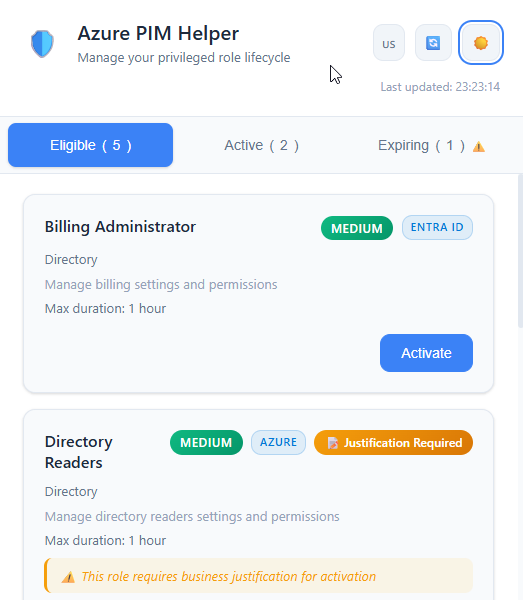
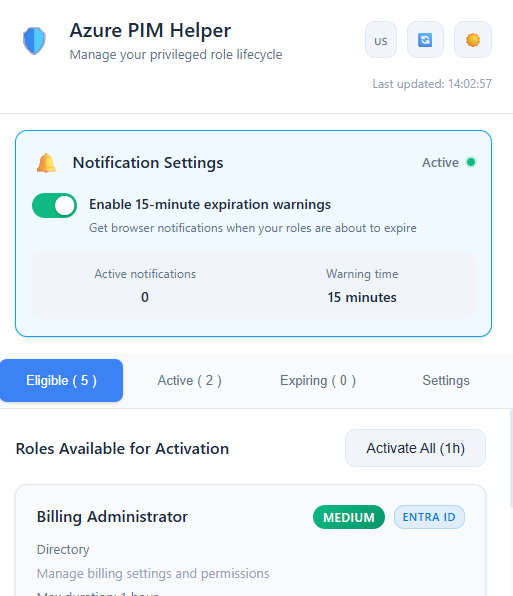
updated readme

diff --git a/README.md b/README.md
@@ -157,7 +157,7 @@ The extension supports both **English** and **French** with seamless switching:
 ### 🔔 Notification Settings Panel ⭐ *NEW!*
 *Comprehensive notification control and preferences*
 
-![Notification Settings](images/notification-panel.png)
+![Notification Settings](images/img6.png)
 
 ### 🌐 Multi-Language Support
 *Seamless language switching with flag icons*
@@ -172,7 +172,7 @@ The extension supports both **English** and **French** with seamless switching:
 ### ⚙ Enhanced Settings Tab ⭐ *NEW!*
 *Complete control over authentication and preferences*
 
-![Settings Tab](images/settings-tab.png)
+![Settings Tab](images/img7.png)
 
 ### 🌙 Dark Theme with Notifications
 *Beautiful dark mode with notification support*
